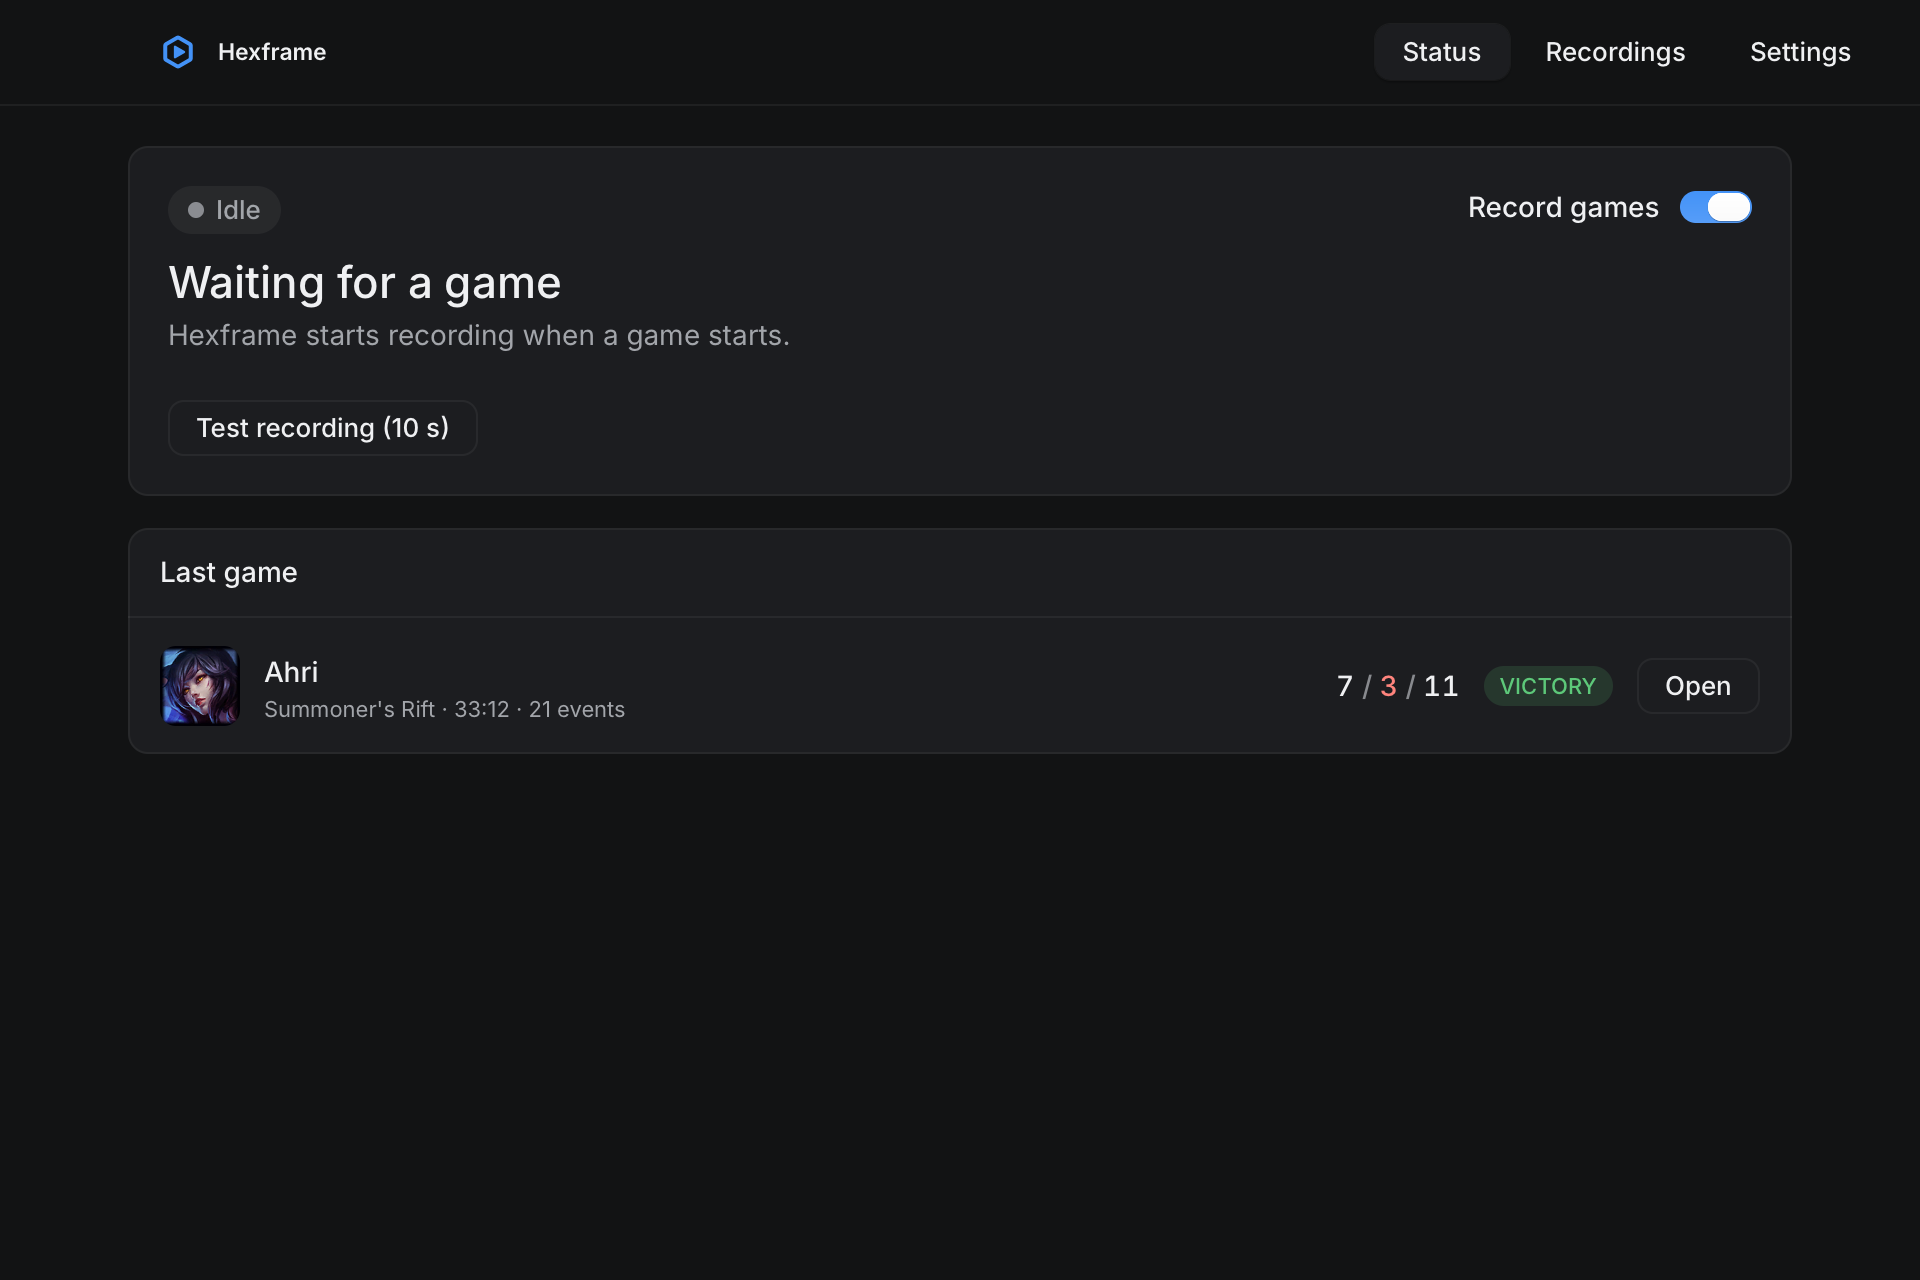
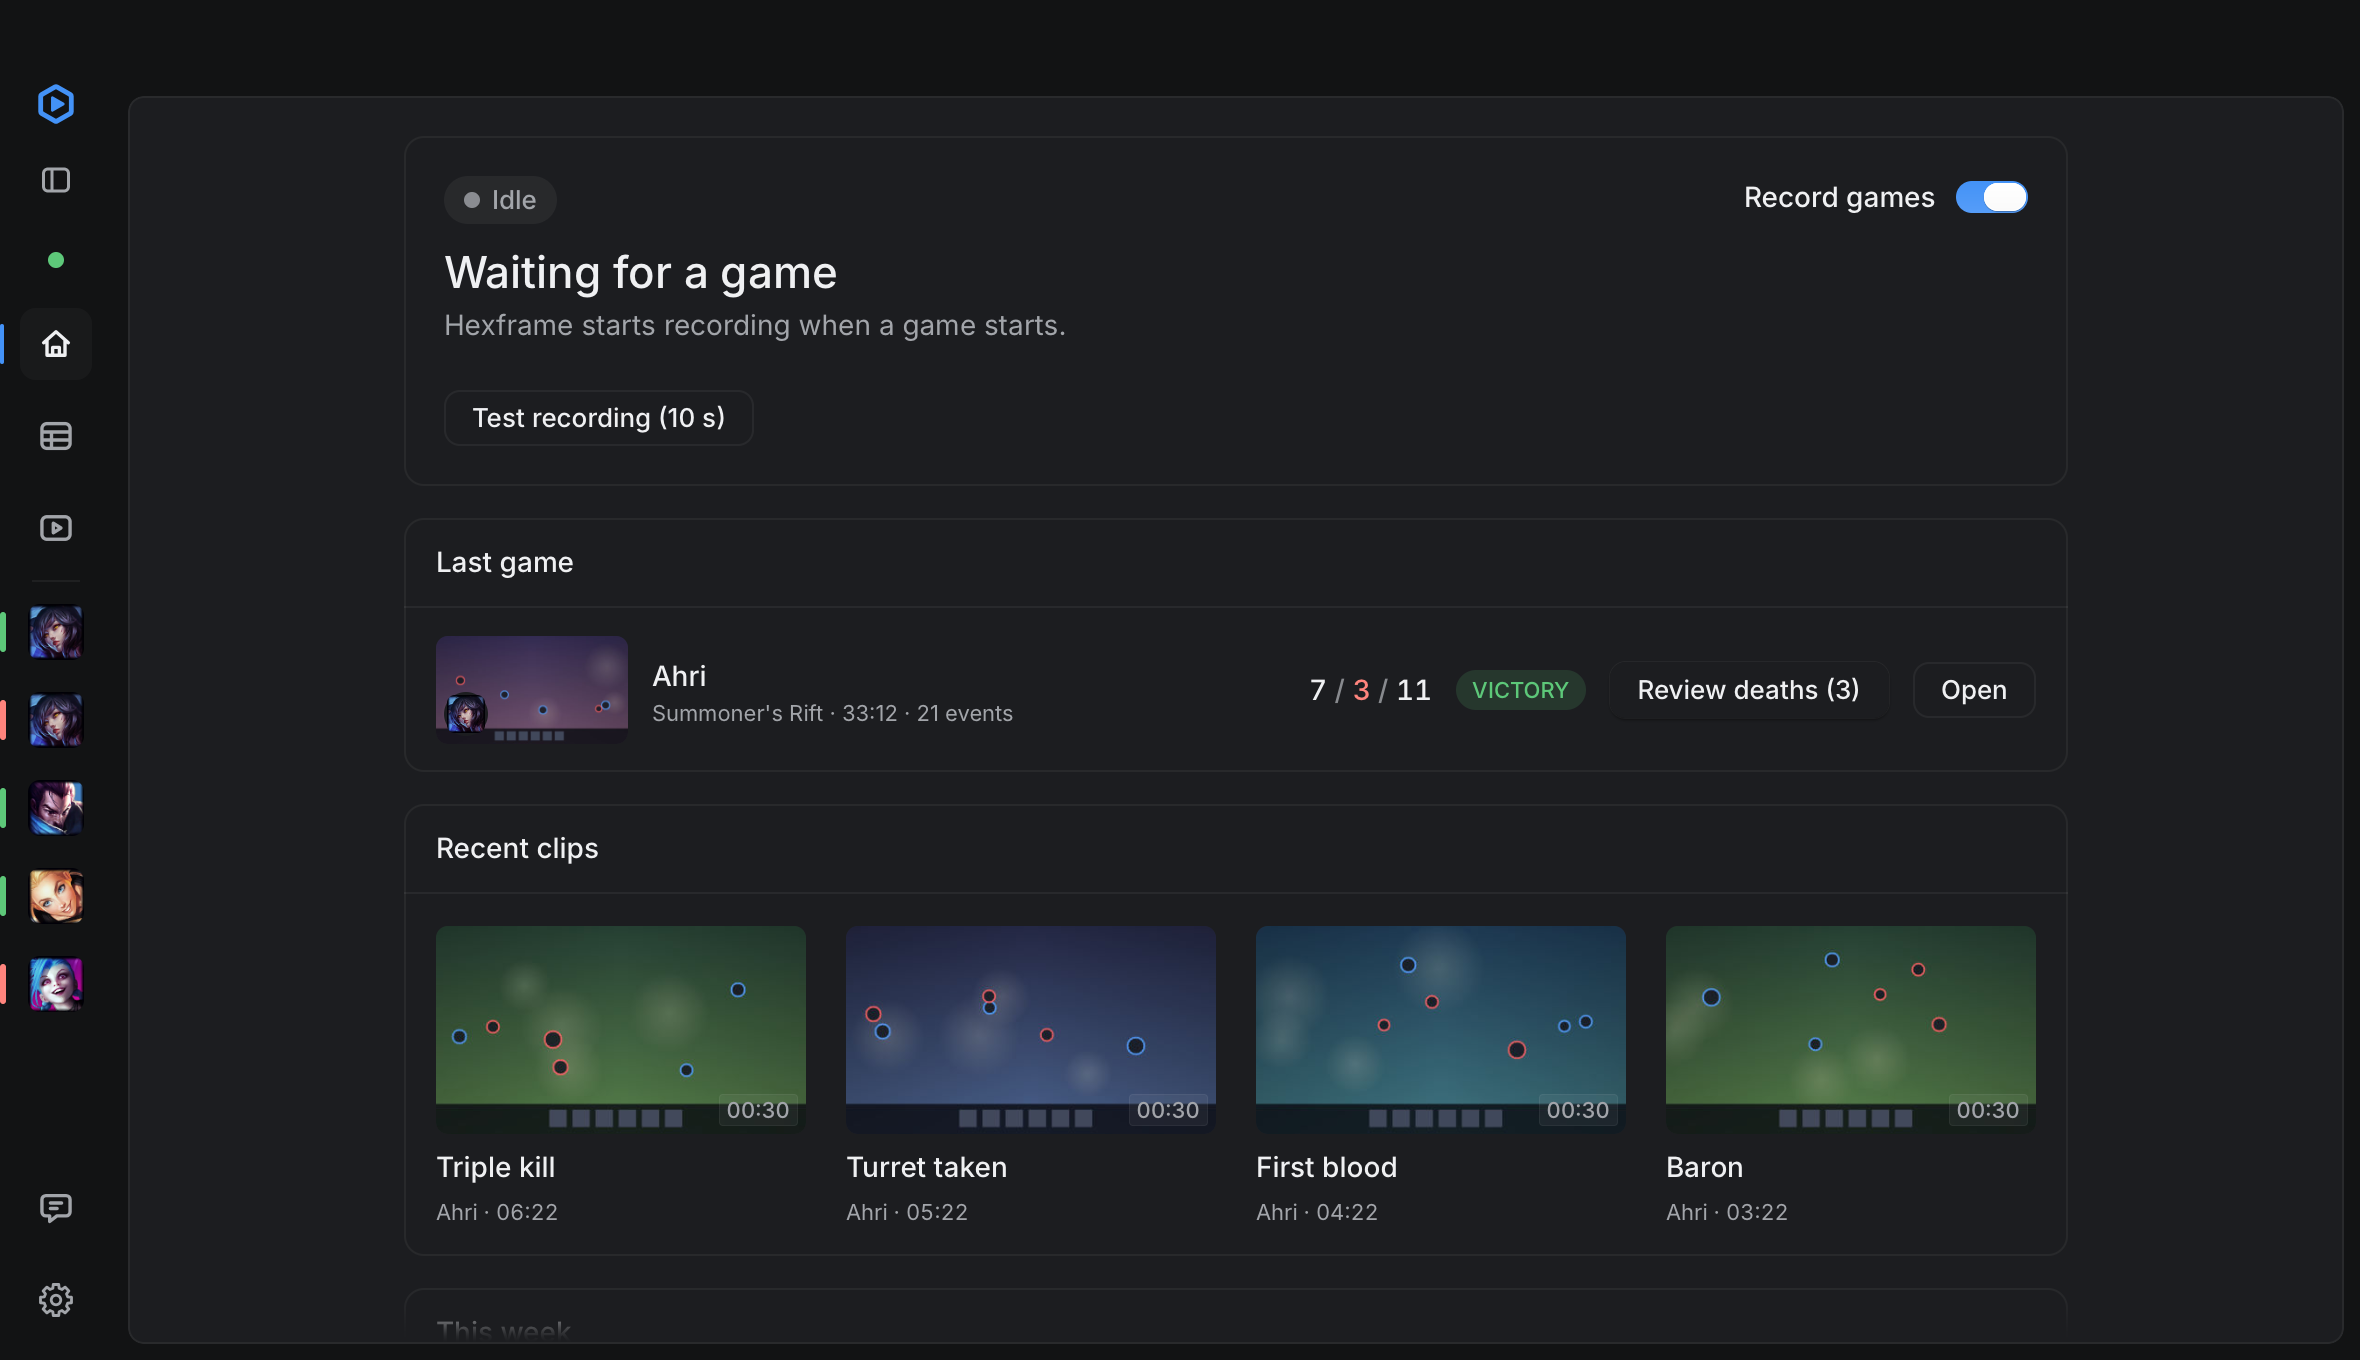
web: refresh the app screenshots and the social card with the new UI

diff --git a/apps/web/src/content/copy.ts b/apps/web/src/content/copy.ts
@@ -28,7 +28,7 @@ export const hero = {
     "Sits in your Windows tray, records full matches and key clips on your GPU, and maps every play on a timeline for review.",
   primaryCta: "Download for Windows",
   secondaryCta: "View on GitHub",
-  screenAlt: "The Greyscreen Status screen while a League game is being recorded.",
+  screenAlt: "The Greyscreen window while a League game is being recorded, with the games list and the live event feed.",
 };
 
 export const trust = [
@@ -89,7 +89,7 @@ export const howItWorks = {
       body: "Open the library after your match to jump to any kill, death, or objective on the timeline, or grab the clips already saved for you.",
     },
   ],
-  screenAlt: "The Greyscreen Status screen showing the last recorded game.",
+  screenAlt: "The Greyscreen Home screen showing the last recorded game.",
 };
 
 export const review = {
@@ -114,7 +114,7 @@ export const review = {
       body: "Adjust playback speed to inspect close fights.",
     },
   ],
-  recordingsAlt: "The Greyscreen Recordings screen listing recorded games by champion.",
+  recordingsAlt: "The Greyscreen Games screen with the games list, the video player and the event timeline.",
 };
 
 export const safe = {
@@ -206,7 +206,7 @@ export const download = {
     'Open Settings to pick your quality preset (Balanced, High, or Max), frame rate (30 or 60 fps), cursor option, and whether Greyscreen starts with Windows.',
     'Leave Greyscreen in the tray with "Record games" turned on, then start a match.',
   ],
-  firstRunAlt: "The Greyscreen Settings screen.",
+  firstRunAlt: "The Greyscreen settings sheet.",
   cliTitle: "Command-line tool",
   cliBody:
     "Use greyscreen-cli.exe to check your encoder (greyscreen-cli doctor) or run a 10-second test recording (greyscreen-cli record --seconds 10).",
